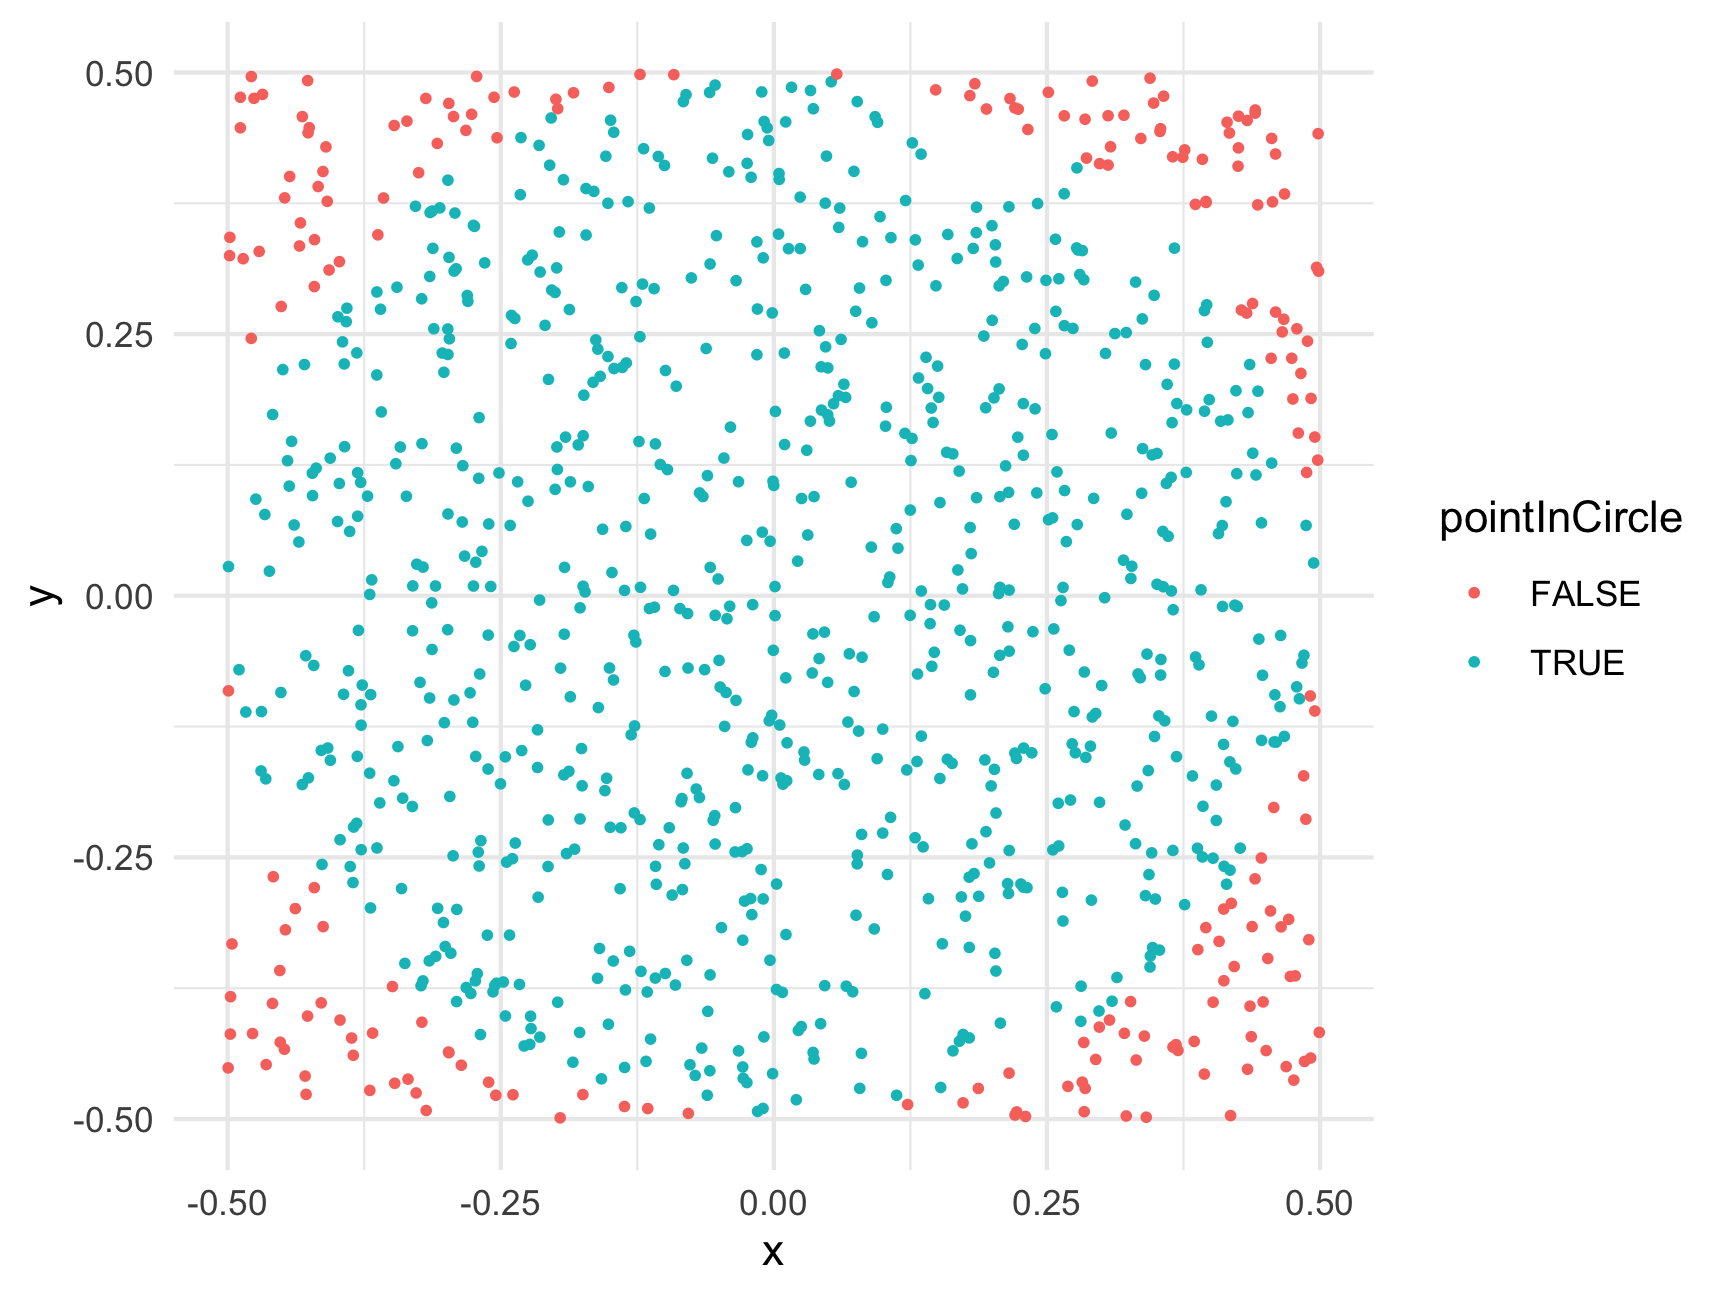
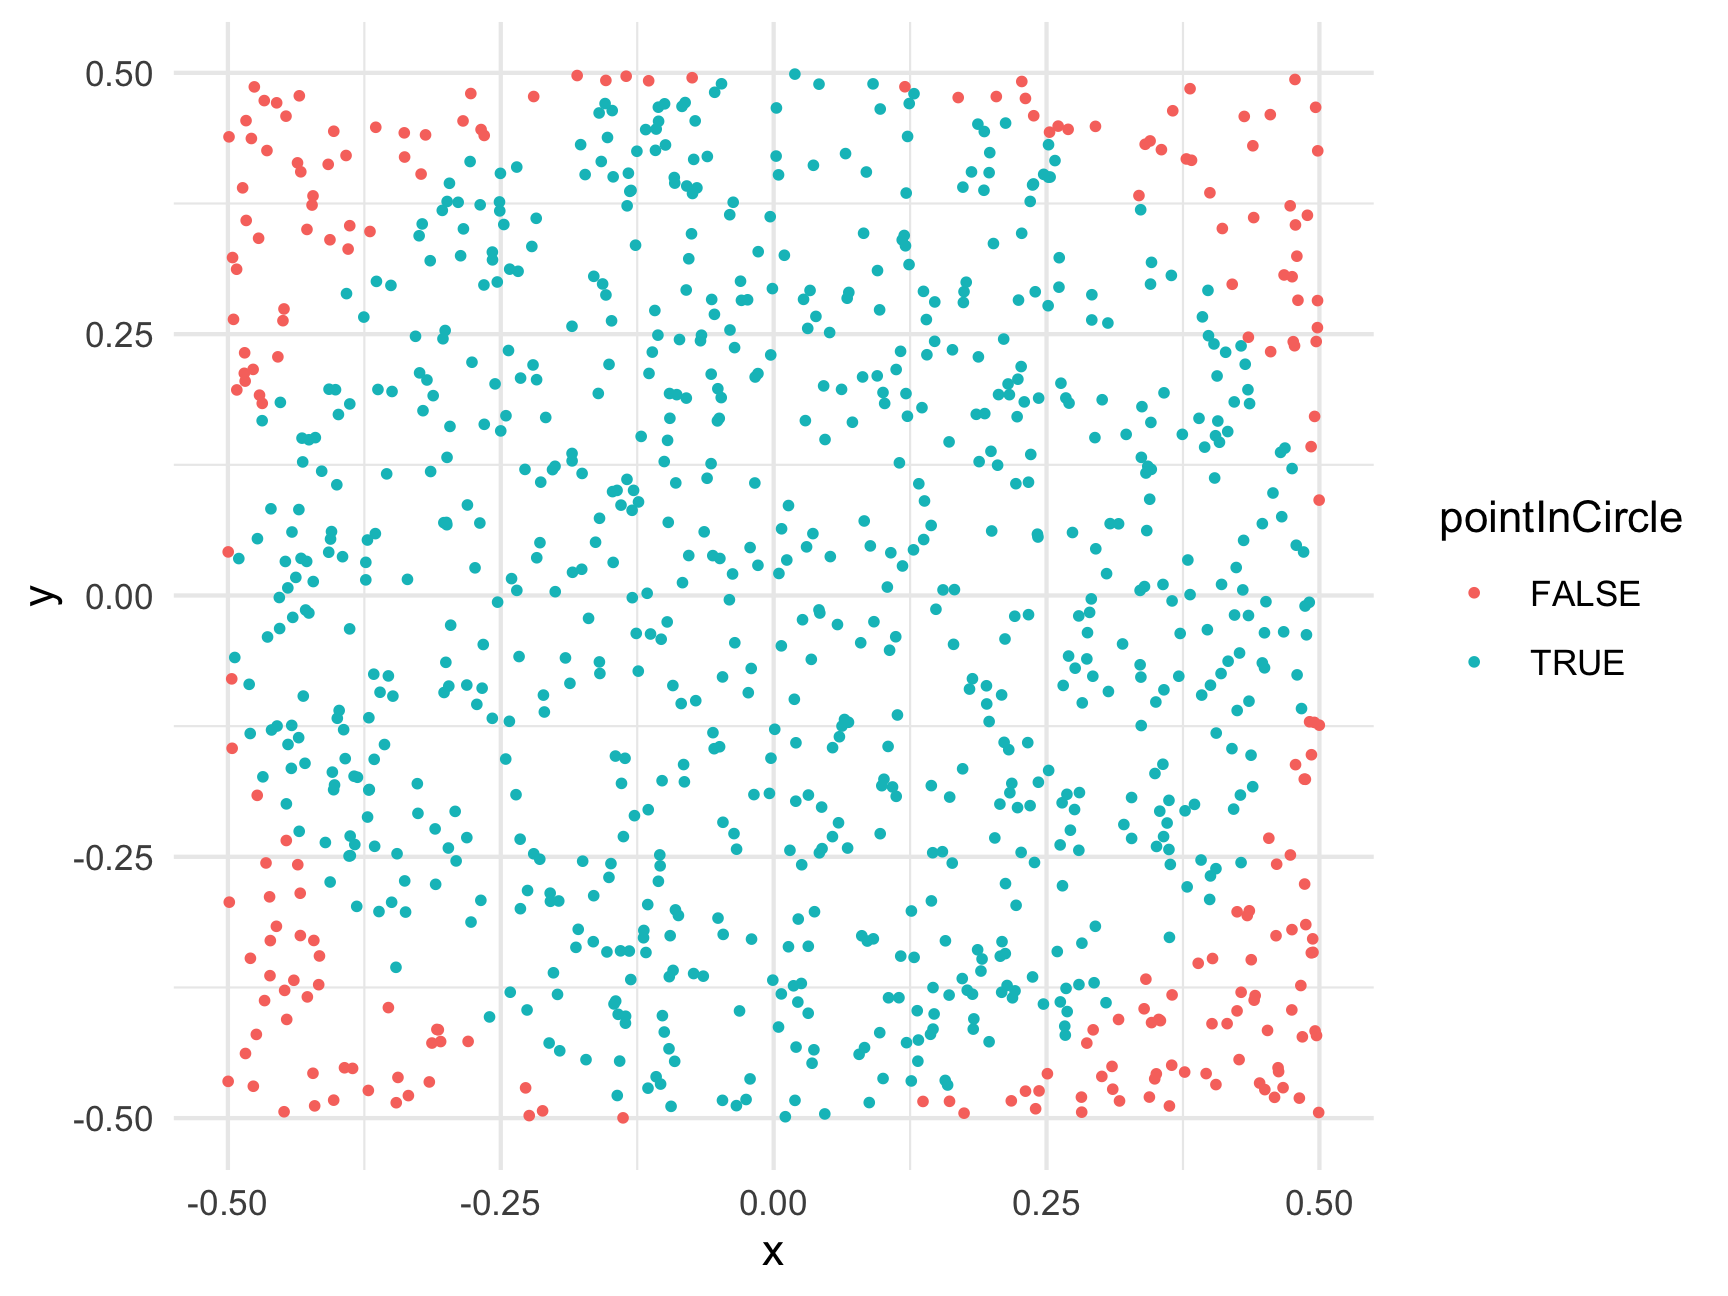
Deploying to gh-pages from  @ b2e64646b361785d3bad1a63dad47ab0f24c9a9c 🚀

Changed region(s): [[0.125, 0.0309, 0.7812, 0.8642], [0.75, 0.4012, 0.7812, 0.4321]]

diff --git a/r13-monte-carlo-methods.html b/r13-monte-carlo-methods.html
@@ -812,11 +812,11 @@ ratio &lt;- sum(belowCurve) / numTrials
 totalArea &lt;- (7 - 3) * 7^2 # Rectangle length x height = 196
 areaUnderCurve &lt;- ratio * totalArea
 areaUnderCurve</code></pre>
-<pre><code>#&gt; [1] 105.3128</code></pre>
-<p>So, using Monte Carlo simulation with 100,000 points, we estimate that the area under the curve is 105.31276. How’d we do? Well, if you’re familiar with calculus, the integral of <span class="math inline">\(f(x) = x^2\)</span> has a closed-form solution (<span class="math inline">\(\frac{x^3}{3} + C\)</span>), so we can check our estimate against the pure-math solution:</p>
+<pre><code>#&gt; [1] 106.134</code></pre>
+<p>So, using Monte Carlo simulation with 100,000 points, we estimate that the area under the curve is 106.134. How’d we do? Well, if you’re familiar with calculus, the integral of <span class="math inline">\(f(x) = x^2\)</span> has a closed-form solution (<span class="math inline">\(\frac{x^3}{3} + C\)</span>), so we can check our estimate against the pure-math solution:</p>
 <p><span class="math display">\[\int_{3}^{7} x^2 \mathrm{dx} = \left ( \frac{x^3}{3} \right ) \Big|_3^7 = \frac{7^3}{3} - \frac{3^3}{3} = 105.33\bar{3}\]</span></p>
-<p>So our estimate error is: <code>105.333 -</code> <code>105.31276</code> <code>=</code> <code>0.0205733</code>.</p>
-<p>That’s an error of just 0.02 % - not bad!</p>
+<p>So our estimate error is: <code>105.333 -</code> <code>106.134</code> <code>=</code> <code>-0.8006667</code>.</p>
+<p>That’s an error of just 0.75 % - not bad!</p>
 <hr />
 </div>
 <div id="monte-carlo-pi" class="section level1">
@@ -846,13 +846,13 @@ points &lt;- data.frame(
     x = runif(numTrials, -0.5, 0.5),
     y = runif(numTrials, -0.5, 0.5))
 head(points)</code></pre>
-<pre><code>#&gt;             x          y
-#&gt; 1 -0.30206922  0.2134966
-#&gt; 2  0.04169466  0.2532599
-#&gt; 3  0.35069688  0.1359762
-#&gt; 4  0.44788640 -0.3881137
-#&gt; 5  0.43836850  0.1361937
-#&gt; 6  0.32045141  0.4591213</code></pre>
+<pre><code>#&gt;              x            y
+#&gt; 1  0.002529386  0.466427631
+#&gt; 2  0.291005232 -0.003267386
+#&gt; 3 -0.186653780 -0.084049268
+#&gt; 4 -0.245260302  0.171984615
+#&gt; 5  0.447705687  0.068719600
+#&gt; 6 -0.345769999 -0.485274784</code></pre>
 <p>For this example, we’re putting the points in a data frame to make it easier to work with. Now that we have random x and y points, let’s compute the radius to each point (the distance from <code>(x, y) = (0, 0)</code>) so we can determine which points fall inside the circle (which has a radius of 0.5):</p>
 <pre class="r"><code>library(dplyr)
 points &lt;- points %&gt;%
@@ -869,9 +869,9 @@ ggplot(points) +
 <pre class="r"><code>ratio &lt;- sum(points$pointInCircle) / nrow(points)
 piApprox &lt;- 4 * ratio
 piApprox</code></pre>
-<pre><code>#&gt; [1] 3.14</code></pre>
-<p>So our estimate error is: <code>3.1415 -</code> <code>3.14</code> <code>=</code> <code>-0.0015927</code>.</p>
-<p>That’s an error of just 0.05 % - not bad for only 1,000 points!</p>
+<pre><code>#&gt; [1] 3.12</code></pre>
+<p>So our estimate error is: <code>3.1415 -</code> <code>3.12</code> <code>=</code> <code>-0.0215927</code>.</p>
+<p>That’s an error of just 0.69 % - not bad for only 1,000 points!</p>
 <p>To get an even better estimate of <span class="math inline">\(\pi\)</span>, we can increase N. Let’s see what we get with 100,000 trials:</p>
 <pre class="r"><code>numTrials &lt;- 100000
 points &lt;- data.frame(
@@ -883,13 +883,13 @@ points &lt;- data.frame(
 ratio &lt;- sum(points$pointInCircle) / nrow(points)
 piApprox &lt;- 4 * ratio
 piApprox</code></pre>
-<pre><code>#&gt; [1] 3.13648</code></pre>
+<pre><code>#&gt; [1] 3.14736</code></pre>
 <pre class="r"><code># Compute error:
 error &lt;- piApprox - pi
 percentError &lt;- round(100*abs(error / pi), 2)
 percentError</code></pre>
-<pre><code>#&gt; [1] 0.16</code></pre>
-<p>By increasing the number of trials from 1,000 to 100,000, we improved our estimate error from 0.05 % to 0.16 %!</p>
+<pre><code>#&gt; [1] 0.18</code></pre>
+<p>By increasing the number of trials from 1,000 to 100,000, we improved our estimate error from 0.69 % to 0.18 %!</p>
 <hr />
 <p><strong>Page sources</strong>:</p>
 <p>Some content on this page has been modified from other courses, including:</p>

diff --git a/r2-functions-packages.html b/r2-functions-packages.html
@@ -770,7 +770,7 @@ div.tocify {
 <p>Here the letters <code>sqrt</code> are short for “square root,” and the value inside the <code>()</code> is the “argument” to the function. In the example above, the value <code>225</code> is the “argument”.</p>
 <p>Keep in mind that not all functions have (or require) arguments:</p>
 <pre class="r"><code>date() # Returns the current date and time</code></pre>
-<pre><code>#&gt; [1] &quot;Thu Mar  3 17:49:01 2022&quot;</code></pre>
+<pre><code>#&gt; [1] &quot;Thu Mar  3 19:50:13 2022&quot;</code></pre>
 <p>(the date above is the date this page was last built)</p>
 <div id="multiple-arguments" class="section level2">
 <h2>Multiple arguments</h2>
@@ -988,9 +988,9 @@ library(packagename)   # This also works</code></pre>
 <p>Now that you have the package installed on your computer, try loading it using <code>library(wikifacts)</code>, then trying using some of it’s functions:</p>
 <pre class="r"><code>library(wikifacts) # Load the library</code></pre>
 <pre class="r"><code>wiki_randomfact()</code></pre>
-<pre><code>#&gt; [1] &quot;Here&#39;s some news from 27 March 2019. The U.S. Special Counsel investigation, headed by Robert Mueller (pictured), concludes. (Courtesy of Wikipedia)&quot;</code></pre>
+<pre><code>#&gt; [1] &quot;Did you know that when Jill Knight succeeded Edith Pitt, it was the first time in the UK that a female Member of Parliament was succeeded by another? (Courtesy of Wikipedia)&quot;</code></pre>
 <pre class="r"><code>wiki_didyouknow()</code></pre>
-<pre><code>#&gt; [1] &quot;Did you know that basketball player Trey Kell signed with the Bosnian team Igokea over nine other European offers? (Courtesy of Wikipedia)&quot;</code></pre>
+<pre><code>#&gt; [1] &quot;Did you know that Francisco D&#39;Andrade (pictured) appears in his signature role Don Giovanni in three paintings by Max Slevogt? (Courtesy of Wikipedia)&quot;</code></pre>
 <p>In case you’re wondering, the only thing this package does is generate messages containing random facts from <a href="https://www.wikipedia.org/">Wikipedia</a>.</p>
 </div>
 <div id="using-only-some-package-functions" class="section level2">
@@ -1001,7 +1001,7 @@ library(packagename)   # This also works</code></pre>
 </blockquote>
 <p>Here I use the name of the <em>package</em> followed by <code>::</code> to tell R that I’m looking for a function that is in that package. For example, if I didn’t want to load the whole <strong>wikifacts</strong> library but still wanted to use the <code>wiki_randomfact()</code> function, I could do this:</p>
 <pre class="r"><code>wikifacts::wiki_randomfact()</code></pre>
-<pre><code>#&gt; [1] &quot;Did you know that the Comoé National Park Research Station is one of the most modern field stations in Africa? (Courtesy of Wikipedia)&quot;</code></pre>
+<pre><code>#&gt; [1] &quot;Did you know that on April 11 in 1921 – Emir Abdullah (pictured) established the first centralised government in the recently created British protectorate of Transjordan. (Courtesy of Wikipedia)&quot;</code></pre>
 <p>Where this is particularly handy is when two packages have a function with the same name. If you load both library, R might not know which function to use. In those cases, it’s best to also provide the <strong>package</strong> name. For example, let’s say there was a package called <strong>apples</strong> and another called <strong>bananas</strong>, and each had a function named <code>fruitName()</code>. If I wanted to use each of them in my code, I would need to specify the package names like this:</p>
 <pre class="r"><code>apples::fruitName()
 bananas::fruitName()</code></pre>

diff --git a/class/8-python/notes-complete.py b/class/8-python/notes-complete.py
@@ -45,7 +45,13 @@ def hypotenuse(a, b):
 def hypotenuse(a, b):
     return((a**2 + b**2)**0.5)
 
-hypotenuse(3, 4)
+def test_hypotenuse():
+    print("Testing hypotenuse...")
+    assert(hypotenuse(3,4) == 5)
+    assert(hypotenuse(5, 12) == 13)
+    print("Passed!")
+
+test_hypotenuse()
 
 # 2. isRightTriangle(a, b, c): Returns True if the triangle formed by
 #    the lines of length a, b, and c is a right triangle and False otherwise.
@@ -87,8 +93,16 @@ def factorial(n):
         total = total*i
     return(total)
 
-factorial(0) == 1
-factorial(3) == 3*2*1
+def test_factorial():
+    print("Testing factorial...")
+    assert(factorial(0) == 1)
+    assert(factorial(3) == 1*2*3)
+    assert(factorial(5) == 1*2*3*4*5)
+    print("Passed!")
+
+test_factorial()
+
+
 
 def nthHighestValue(n, x):
     x.sort(reverse = True)
@@ -97,10 +111,16 @@ def nthHighestValue(n, x):
 def nthHighestValue(n, x):
     y = sorted(x, reverse = True)
     return(y[n-1])
-    
-nthHighestValue(1, [5,1,3]) == 5
-nthHighestValue(2, [5,1,3]) == 3
-nthHighestValue(3, [5,1,3]) == 1
+
+def test_nthHighestValue():
+    print("Testing nthHighestValue...")
+    assert(nthHighestValue(1, [5, 1, 3]) == 5)
+    assert(nthHighestValue(2, [5, 1, 3]) == 3)
+    assert(nthHighestValue(3, [5, 1, 3]) == 1)
+    print("Passed!")
+
+test_nthHighestValue()
+
 
 # ------------------------------------------------
 # Practice 3
@@ -115,9 +135,14 @@ def sortString(s):
     x = sorted(list(s))
     return("".join(x))
 
-sortString("cba") == "abc"
-sortString("abedhg") == "abdegh"
-sortString("AbacBc") == "ABabcc"
+def test_sortString():
+    print("Testing sortString...")
+    assert(sortString("cba") == "abc")
+    assert(sortString("abedhg") == "abdegh")
+    assert(sortString("AbacBc") == "ABabcc")
+    print("Passed!")
+
+test_sortString()
 
 # 2. areAnagrams(s1, s2): Takes two strings, s1 and s2, and returns True if
 #    the strings are anagrams, and False otherwise. **Treat lower and upper
@@ -131,8 +156,13 @@ def areAnagrams(s1, s2):
 def areAnagrams(s1, s2):
     return(sortString(s1.lower()) == sortString(s2.lower()))
     
-areAnagrams("", "") == True
-areAnagrams("aabbccdd", "bbccddee") == False
-areAnagrams("TomMarvoloRiddle", "IAmLordVoldemort") == True
+def test_areAnagrams():
+    print("Testing areAnagrams...")
+    assert(areAnagrams("", "") == True)
+    assert(areAnagrams("aabbccdd", "bbccddee") == False)
+    assert(areAnagrams("TomMarvoloRiddle", "IAmLordVoldemort") == True)
+    print("Passed!")
+
+test_areAnagrams()
 
 

diff --git a/class/8-python/notes-blank.py b/class/8-python/notes-blank.py
@@ -29,9 +29,18 @@ def isEven(n):
 #    length a and b.
 
 
+def test_hypotenuse():
+    print("Testing hypotenuse...")
+    assert(hypotenuse(3,4) == 5)
+    assert(hypotenuse(5, 12) == 13)
+    print("Passed!")
+
+test_hypotenuse()
+
 # 2. isRightTriangle(a, b, c): Returns True if the triangle formed by
 #    the lines of length a, b, and c is a right triangle and False otherwise.
 #    **Hint**: you may not know which value (a, b, or c) is the hypotenuse.
+
 
 
 # ------------------------------------------------
@@ -49,6 +58,27 @@ def isEven(n):
 #    value in x. Assume that n <= len(x).
 
 
+def test_factorial():
+    print("Testing factorial...")
+    assert(factorial(0) == 1)
+    assert(factorial(3) == 1*2*3)
+    assert(factorial(5) == 1*2*3*4*5)
+    print("Passed!")
+
+test_factorial()
+
+
+
+def test_nthHighestValue():
+    print("Testing nthHighestValue...")
+    assert(nthHighestValue(1, [5, 1, 3]) == 5)
+    assert(nthHighestValue(2, [5, 1, 3]) == 3)
+    assert(nthHighestValue(3, [5, 1, 3]) == 1)
+    print("Passed!")
+
+test_nthHighestValue()
+
+
 # ------------------------------------------------
 # Practice 3
 
@@ -59,6 +89,27 @@ def isEven(n):
 #    of letters.
 
 
+def test_sortString():
+    print("Testing sortString...")
+    assert(sortString("cba") == "abc")
+    assert(sortString("abedhg") == "abdegh")
+    assert(sortString("AbacBc") == "ABabcc")
+    print("Passed!")
+
+test_sortString()
+
 # 2. areAnagrams(s1, s2): Takes two strings, s1 and s2, and returns True if
 #    the strings are anagrams, and False otherwise. **Treat lower and upper
 #    case as the same letters**.
+
+
+def test_areAnagrams():
+    print("Testing areAnagrams...")
+    assert(areAnagrams("", "") == True)
+    assert(areAnagrams("aabbccdd", "bbccddee") == False)
+    assert(areAnagrams("TomMarvoloRiddle", "IAmLordVoldemort") == True)
+    print("Passed!")
+
+test_areAnagrams()
+
+
